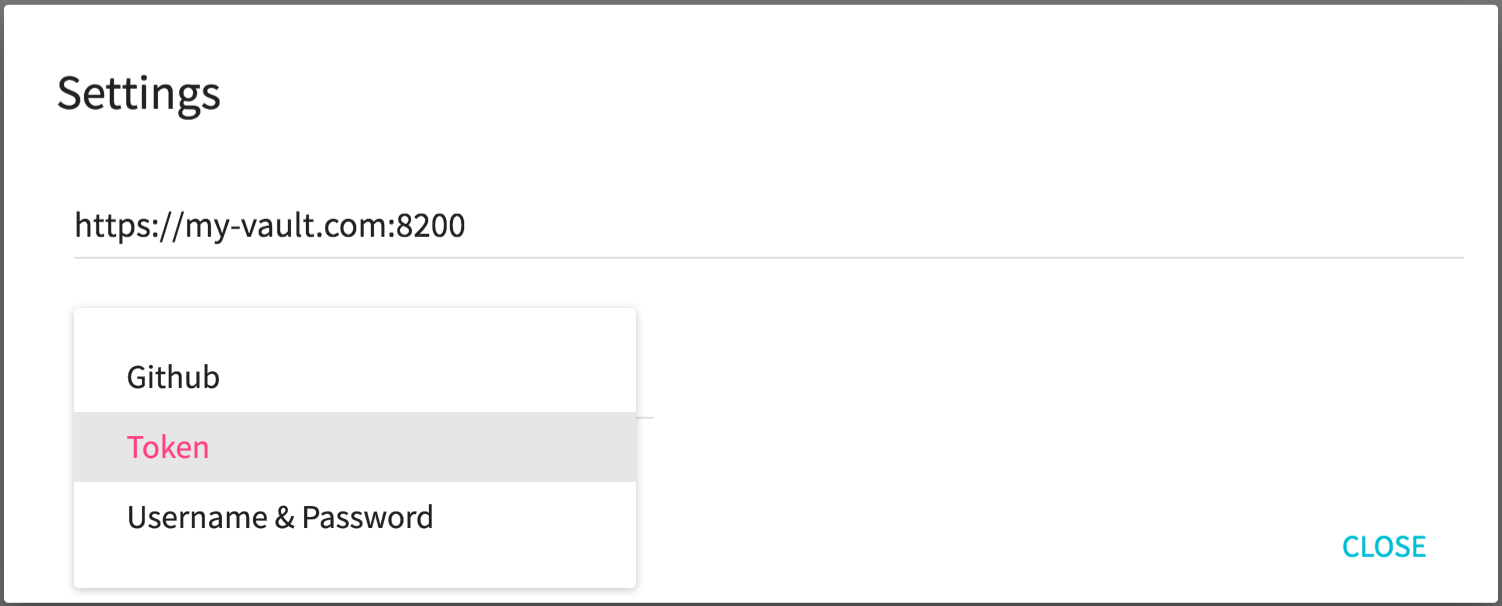
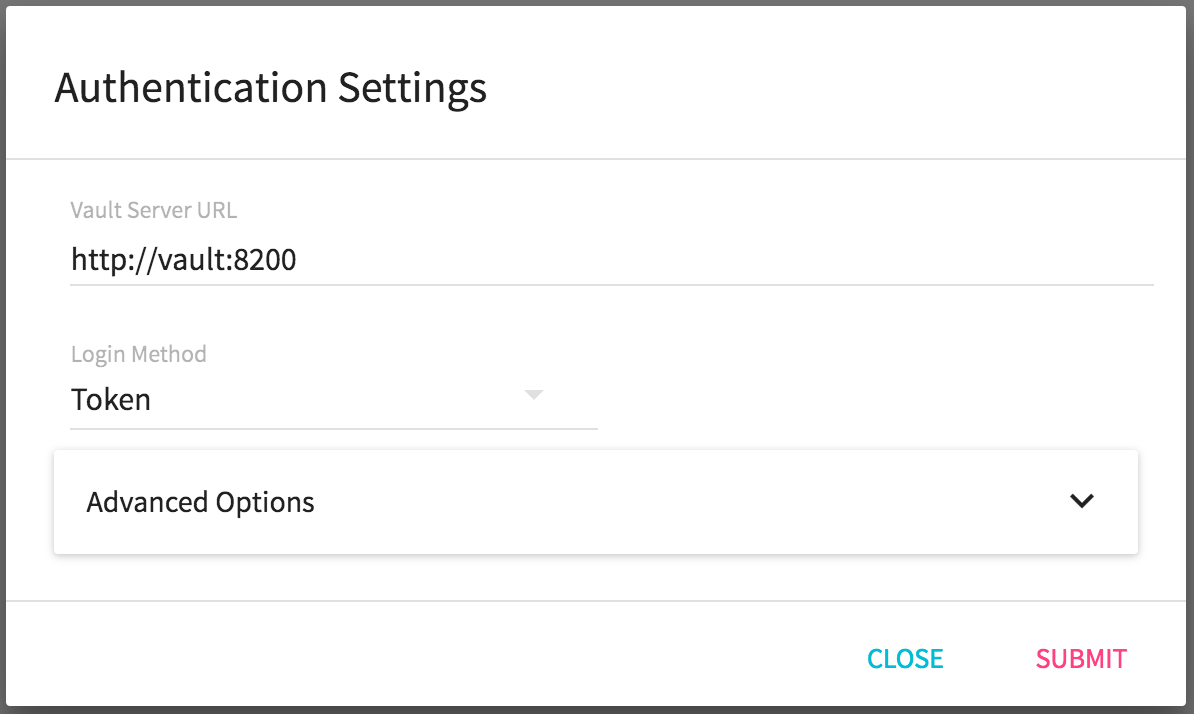
Update images

diff --git a/README.md b/README.md
@@ -1,15 +1,14 @@
 # Vault-UI
-[![](https://images.microbadger.com/badges/image/djenriquez/vault-ui.svg)](https://microbadger.com/images/djenriquez/vault-ui)
+[![](https:/images.microbadger.com/badges/image/djenriquez/vault-ui.svg)](https://microbadger.comimages/djenriquez/vault-ui)
 [![Run Status](https://api.shippable.com/projects/581e7826fbc68c0f00deb0ca/badge?branch=master)](https://app.shippable.com/projects/581e7826fbc68c0f00deb0ca)
 
 A beautiful way to manage your secrets in Vault
-![Landing Page](https://github.com/djenriquez/vault-ui/raw/master/images/Landing.jpg)
-
-![Secrets Management](https://github.com/djenriquez/vault-ui/raw/master/images/Home.png)
+![Landing Page](images/Landing.png)
 
 ## Configuration
 Configuration is accessed by clicking on the configuration cog on the login page.
-![Configuration](https://github.com/djenriquez/vault-ui/raw/master/images/Config.png)
+
+<img src="images/AuthConfig.png" height="280">
 
 ### Vault Endpoint
 Users can enter in the full endpoint to Vault, including scheme.  When running the docker image, it is possible to
@@ -31,29 +30,30 @@ Currently supported authentication methods:
 In some cases, users might want to use middleware to authenticate into Vault-UI for purposes like SSO. In this case, the `VAULT_SUPPLIED_TOKEN_HEADER` may be populated with the name of the header that contains a token to be used for authentication.
 
 ## Secrets
-![Secrets Management](https://github.com/djenriquez/vault-ui/raw/master/images/Secrets.png)
+![Secrets Management](images/Home.png)
 
 Secrets are now managed using the graphical [josdejong/jsoneditor](https://github.com/josdejong/jsoneditor) JSON editor. Schema validation is enforced on policies to aid the operator in writing correct syntax.
-![New Secrets](https://github.com/djenriquez/vault-ui/raw/master/images/NewSecret.png)
+<img src="images/NewSecret.png" height="500">
 
 Secrets also are accessible directly by key from a browser by navigating to the URI `/secrets/<mount>/<namespace>/key`. For example, if you have a generic secret key of /hello/world/vault using the generic mount `secret`, one can navigate to this directly through http://vault-ui.myorg.com/secrets/secret/hello/world/vault.
 
 ### Root key bias
 By default, secrets will display as their raw JSON value represented by the `data` field in the HTTP GET response metadata. However, users can apply a "Root Key" bias to the secrets through the settings page. The "Root Key" will be used when reading, creating and updating secrets such that the value displayed in the UI is the value stored at the "Root Key". For example, if the secret at `secret/hello` is `{ "value": "world" }`, setting the "Root Key" to `value` will update the UI such that the secret will display as simply "world" instead of `{ "value": "world" }`.
-<img src="https://github.com/djenriquez/vault-ui/raw/master/images/RootKey.png" height="240">
+
+<img src="images/RootKey.png" height="180">
 
 ## Policies
 Policies are managed also using the [josdejong/jsoneditor](https://github.com/josdejong/jsoneditor) JSON editor. Currently, GitHub and raw Tokens are the only supported authentication backends for associated policies.
 
 ## Token Management
-![Token Management](https://github.com/djenriquez/vault-ui/raw/master/images/TokenManagement.png)
+<img src="images/TokenManagement.png" height="500">
 
 Users now have the ability to create and revoke tokens.
-![Token Management](https://github.com/djenriquez/vault-ui/raw/master/images/NewToken.png)
+<img src="images/NewToken.png" height="500">
 
 ## Response Wrapping
 Vault-UI supports response-wrapping raw values. It currently does not support wrapping of existing secrets.
-![Response Wrapping](https://github.com/djenriquez/vault-ui/raw/master/images/ResponseWrapping.png)
+<img src="images/ResponseWrapping.png" height="500">
 
 ## Run
 Vault-UI Docker images are automatically built using an [automated build on Docker Hub](https://hub.docker.com/r/djenriquez/vault-ui/builds/). We encourage that versioned images are used for production.
